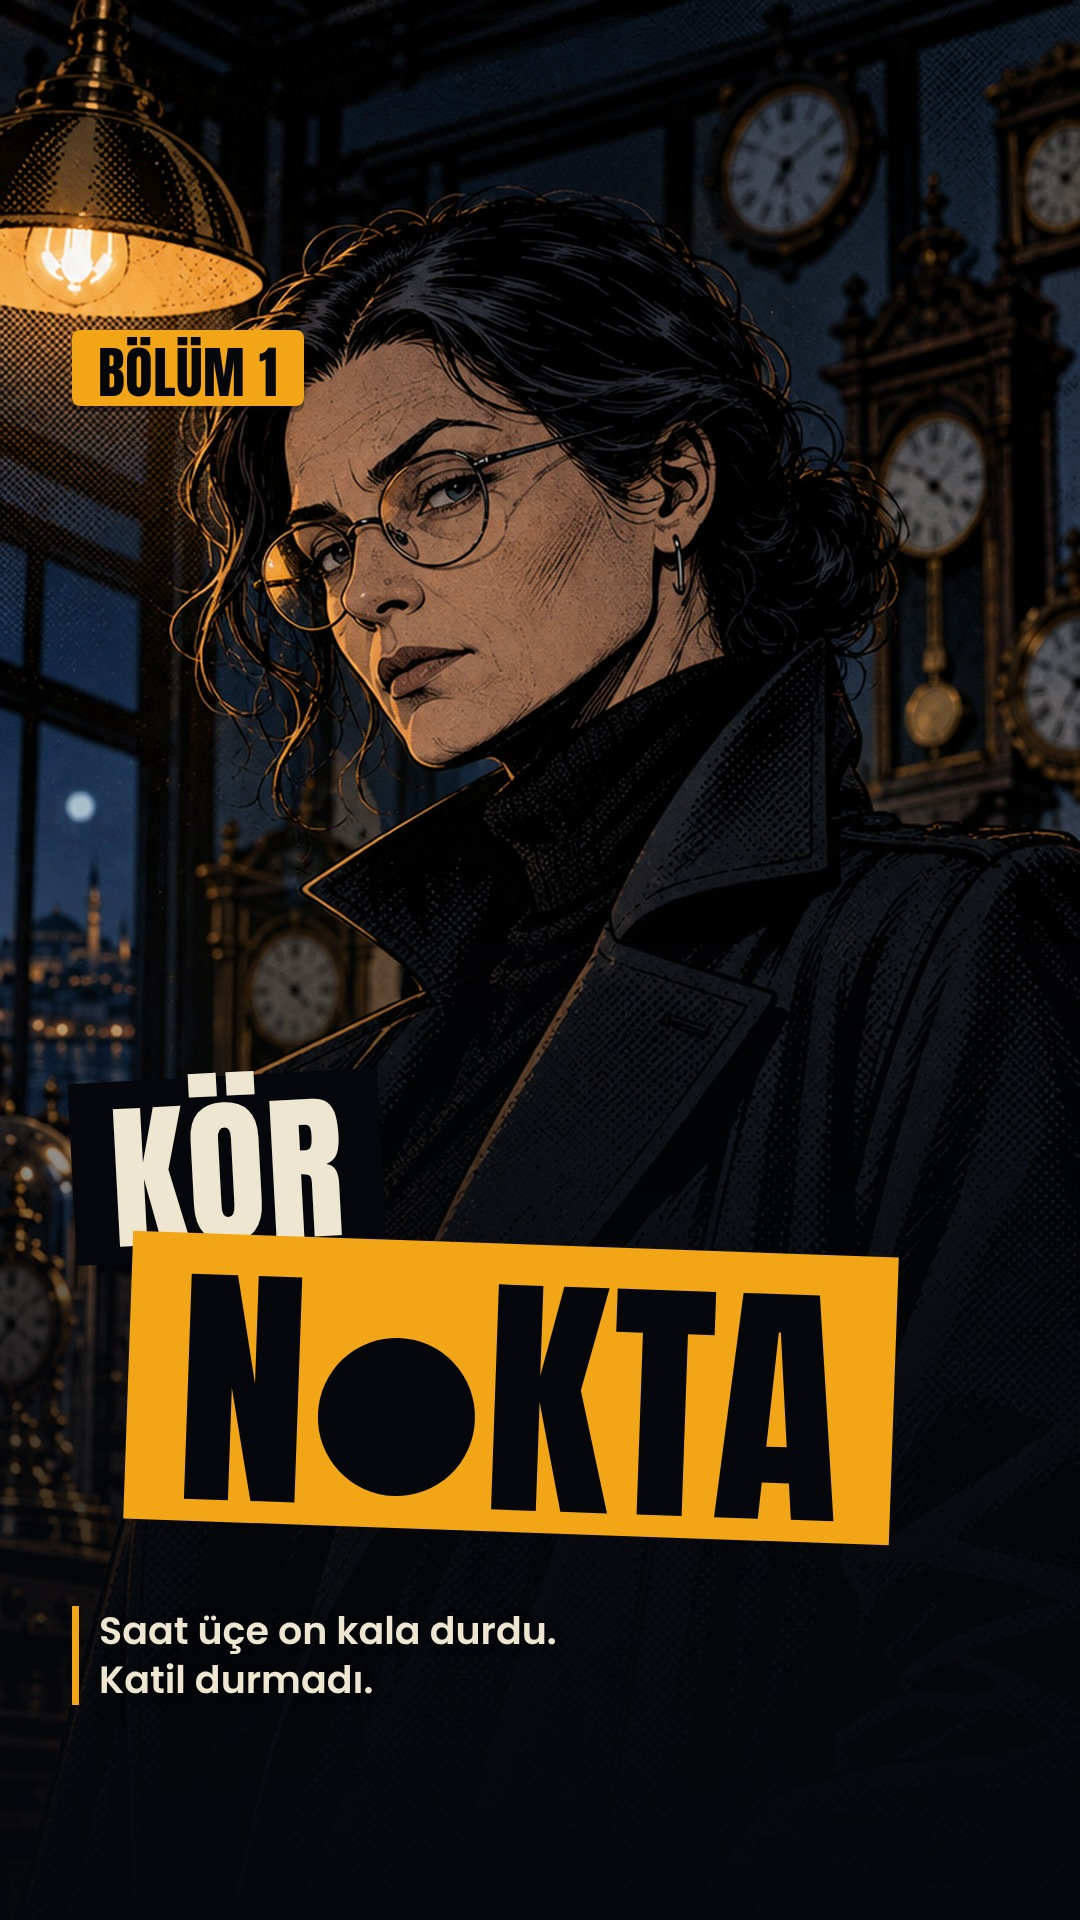
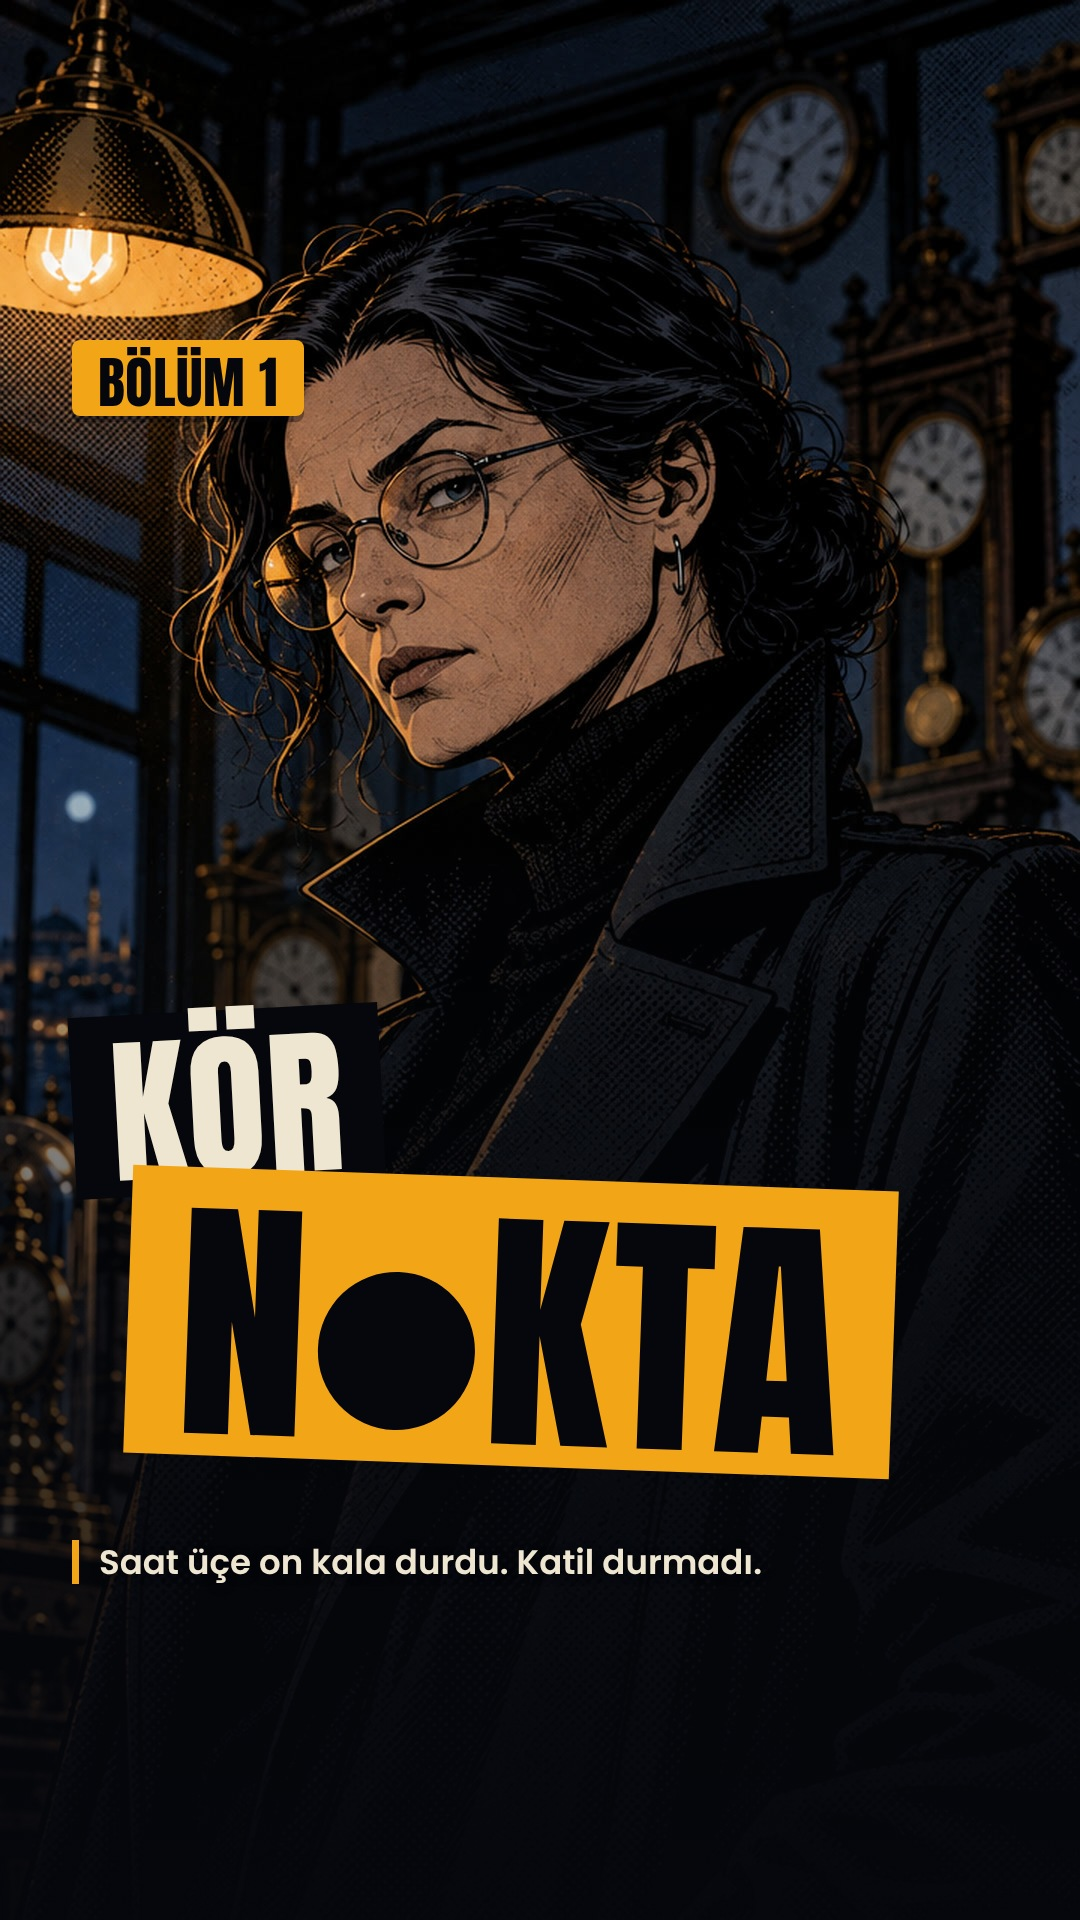
Make covers a single 9:16 file that survives the 4:5 crop
Claude-Session: https://claude.ai/code/session_01LoZARWKFhkwq8JuT9FhJjF

Changed region(s): [[0.0611, 0.5, 0.8556, 0.9062], [0.0611, 0.1562, 0.275, 0.2188], [0.3361, 0.5, 0.3667, 0.5312]]

diff --git a/kor-nokta/paylasim/sablon.html b/kor-nokta/paylasim/sablon.html
@@ -34,10 +34,11 @@
   <div id="alt"></div>
 </div>
 <script>
-  // Parametreler: tur=kapak|kapak45|hikaye, bolum, resim, alt, y (resim kaydırma), olcek, ibre=cx,cy,akrep,yelkovan,saniye,boy
+  // Kapak tek dosyadır (1080x1920); Instagram ortadan 4:5 kırptığı için bütün yazılar y 300–1620 arasında durur.
+  // Parametreler: tur=kapak|hikaye, bolum, resim, alt, y (resim kaydırma), olcek, ibre=cx,cy,akrep,yelkovan,saniye,boy
   const q = new URLSearchParams(location.search), tur = q.get("tur") || "kapak", bolum = q.get("bolum") || "1";
   const el = (id) => document.getElementById(id), koy = (id, s) => Object.assign(el(id).style, s);
-  const Y = tur === "kapak45" ? 1350 : 1920;
+  const Y = 1920;
   koy("tuval", { height: Y + "px" });
   el("img").src = "../assets/paneller/" + q.get("resim");
   koy("resim", { transform: `translateY(${q.get("y") || 0}px) scale(${q.get("olcek") || 1})` });
@@ -55,13 +56,12 @@
     el("b3").textContent = "YAYINDA!"; koy("b3", { left: "84px", top: "1262px", fontSize: "238px", padding: "22px 50px 4px", transform: "rotate(1.5deg)" });
     el("alt").textContent = q.get("alt") || ""; koy("alt", { left: "0", width: "1080px", top: "1582px", fontSize: "40px", textAlign: "center" });
   } else {
-    const k = tur === "kapak45";
-    koy("golge", { height: (k ? 900 : 1150) + "px", background: "linear-gradient(rgba(5,7,12,0) 0%, rgba(5,7,12,0.72) 55%, rgba(5,7,12,0.94) 100%)" });
-    el("rozet").textContent = "BÖLÜM " + bolum; koy("rozet", { left: "72px", top: (k ? 62 : 330) + "px", fontSize: "56px", padding: "14px 26px 6px" });
-    el("b1").textContent = "KÖR"; koy("b1", { left: "72px", top: (k ? 760 : 1076) + "px", fontSize: (k ? 150 : 160) + "px", padding: "18px 38px 4px", transform: "rotate(-3deg)" });
+        koy("golge", { height: "1250px", background: "linear-gradient(rgba(5,7,12,0) 0%, rgba(5,7,12,0.72) 55%, rgba(5,7,12,0.94) 100%)" });
+    el("rozet").textContent = "BÖLÜM " + bolum; koy("rozet", { left: "72px", top: "340px", fontSize: "56px", padding: "14px 26px 6px" });
+    el("b1").textContent = "KÖR"; koy("b1", { left: "72px", top: "1010px", fontSize: "160px", padding: "18px 38px 4px", transform: "rotate(-3deg)" });
     el("b2").style.display = "none";
-    el("b3").innerHTML = NOKTA; koy("b3", { left: "128px", top: (k ? 918 : 1244) + "px", fontSize: (k ? 240 : 262) + "px", padding: "24px 50px 2px", transform: "rotate(2deg)" });
-    el("alt").className = "cubuk"; el("alt").innerHTML = q.get("alt") || ""; koy("alt", { left: "72px", top: (k ? 1234 : 1606) + "px", fontSize: (k ? 34 : 38) + "px", width: "940px" });
+    el("b3").innerHTML = NOKTA; koy("b3", { left: "128px", top: "1178px", fontSize: "262px", padding: "24px 50px 2px", transform: "rotate(2deg)" });
+    el("alt").className = "cubuk"; el("alt").innerHTML = q.get("alt") || ""; koy("alt", { left: "72px", top: "1540px", fontSize: "34px", width: "960px", whiteSpace: "nowrap" });
   }
 </script>
 </body>
